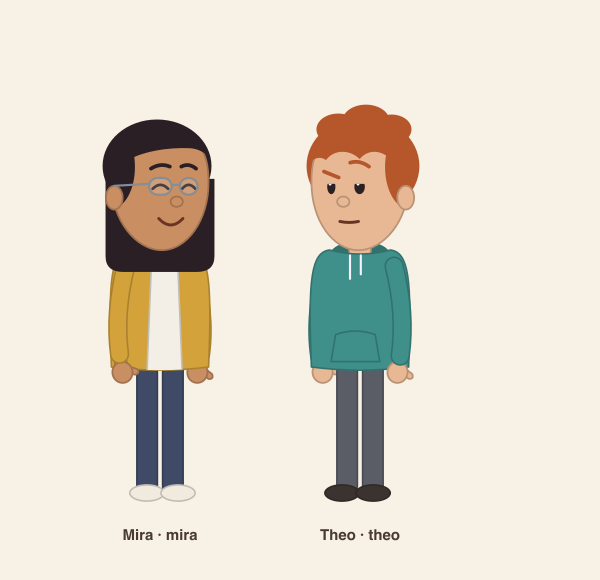
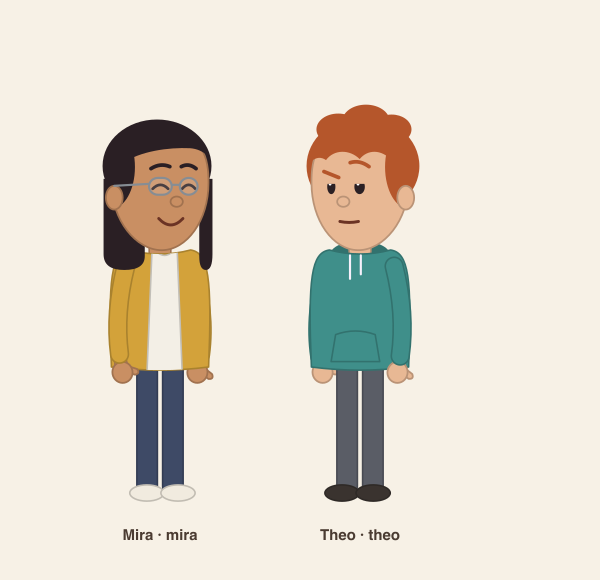
0.1.1: long hair falls in two locks and leaves the neck clear
The long style was one dark block behind the head. It showed under the
chin and read as a beard. Examples redrawn.

Changed region(s): [[0.21, 0.3103, 0.36, 0.4966], [0.15, 0.3103, 0.18, 0.4345]]

diff --git a/references/character.md b/references/character.md
@@ -71,7 +71,7 @@ Everything is drawn by code, so the design is kept to what code draws well. Earl
 - **Colour:** flat fills, each edged in a darker tone of itself. No black outlines.
 - **Hair:** one smooth shape with a fringe. Volume comes from the silhouette, not from curls.
 
-Looks that were tried and rejected, so do not steer back to them: detailed outlined cutouts ("too robotic"), white eyes that touch, round heads with wide bodies ("too chubby"), rings of curls, and dark collar shapes at the neck.
+Looks that were tried and rejected, so do not steer back to them: detailed outlined cutouts ("too robotic"), white eyes that touch, round heads with wide bodies ("too chubby"), rings of curls, dark collar shapes at the neck, and long hair drawn as one block under the chin ("it looks like a beard"). Long hair now falls in two locks beside the jaw and leaves the neck clear.
 
 ## Making characters different from each other
 
@@ -90,6 +90,7 @@ Open `characters/<id>.sheet.png` and check each of these. They all caught real f
 
 - **Top silhouette.** Does the hair read as hair in all four turns? Lumps on top can read as a crown.
 - **Hair covers the head's edge.** No skin-coloured sliver between hair and background.
+- **Nothing dark under the chin.** Hair, a hood or a dark inner top directly below the jaw can read as a beard. The neck should show.
 - **Side view.** The far ear should be hidden, and glasses should still sit on the nose.
 - **Resting face.** The turnaround, the large head and the cast picture all wear it. Does it match the personality you were asked for?
 - **Colour.** Can you tell the top from the skin and the hair at thumbnail size? Is the inner tee visible on an `open` top?
